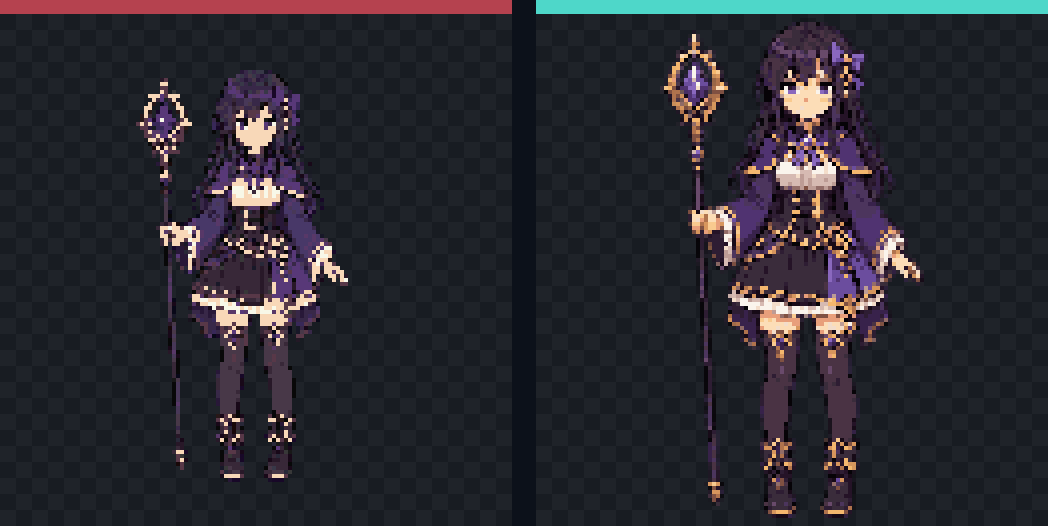
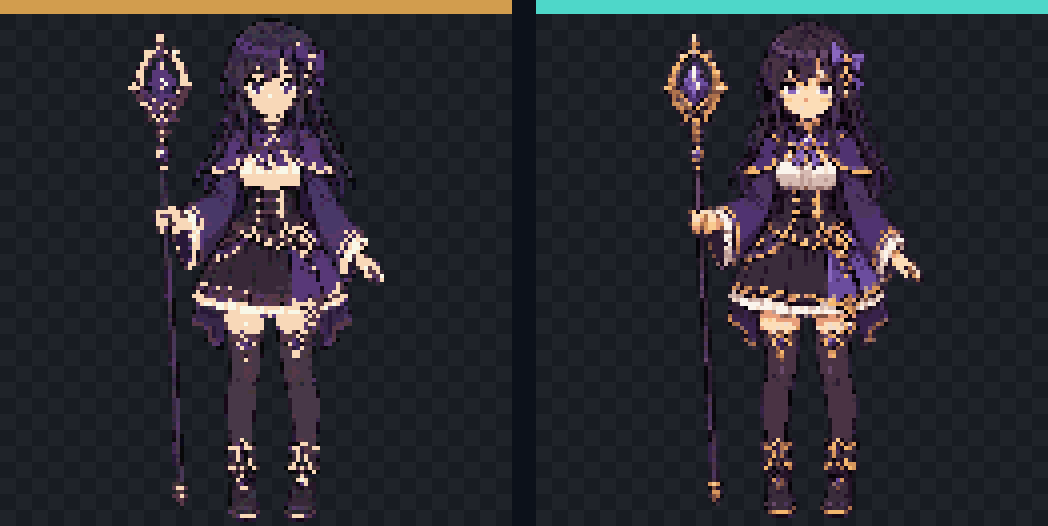
docs: compare Pixelate with naive pixelation

Changed region(s): [[0.0, 0.0, 0.4885, 1.0]]

diff --git a/packages/pixel-core/src/pixel-art.ts b/packages/pixel-core/src/pixel-art.ts
@@ -817,7 +817,7 @@ export function pixelateAnimationFrames(frames: ImageData[], width: number, heig
   return { frames: resized.map((frame) => applyPerceptualPalette(frame, palette)), palette, grid: detectedGrid.detected ? detectedGrid : undefined };
 }
 
-export function legacyPalette(frames: ImageData[], maxColors: number): RGB[] {
+export function naivePalette(frames: ImageData[], maxColors: number): RGB[] {
   const buckets = new Map<string, { count: number; r: number; g: number; b: number }>();
   const step = Math.max(1, Math.floor(Math.sqrt(frames.reduce((sum, frame) => sum + frame.width * frame.height, 0) / 20_000)));
   for (const frame of frames) for (let y = 0; y < frame.height; y += step) for (let x = 0; x < frame.width; x += step) {
@@ -830,7 +830,7 @@ export function legacyPalette(frames: ImageData[], maxColors: number): RGB[] {
   return [...buckets.values()].sort((a, b) => b.count - a.count).slice(0, Math.max(2, maxColors)).map(({ r, g, b }) => [r + 8, g + 8, b + 8]);
 }
 
-export function legacyApplyPalette(source: ImageData, palette: RGB[]) {
+export function naiveApplyPalette(source: ImageData, palette: RGB[]) {
   const output = new ImageData(new Uint8ClampedArray(source.data), source.width, source.height);
   for (let offset = 0; offset < output.data.length; offset += 4) {
     if (output.data[offset + 3] < 16 || !palette.length) continue;
@@ -844,9 +844,10 @@ export function legacyApplyPalette(source: ImageData, palette: RGB[]) {
   return output;
 }
 
-export function legacyPixelateImageData(source: ImageData, width: number, height: number, paletteSize = 24) {
-  const scale = Math.min(width / source.width, height / source.height);
-  const drawWidth = Math.max(1, Math.round(source.width * scale)); const drawHeight = Math.max(1, Math.round(source.height * scale));
-  const fitted = pasteCentered(nearestResize(source, drawWidth, drawHeight), width, height);
-  return legacyApplyPalette(fitted, legacyPalette([fitted], paletteSize));
+export function naivePixelateImageData(source: ImageData, width: number, height: number, paletteSize = 24) {
+  const cropped = cropPixelArt(source, sharedContentBounds([source]));
+  const scale = Math.min(width / cropped.width, height / cropped.height);
+  const drawWidth = Math.max(1, Math.round(cropped.width * scale)); const drawHeight = Math.max(1, Math.round(cropped.height * scale));
+  const fitted = pasteCentered(nearestResize(cropped, drawWidth, drawHeight), width, height);
+  return naiveApplyPalette(fitted, naivePalette([fitted], paletteSize));
 }

diff --git a/scripts/compare-pixel-pipelines.ts b/scripts/compare-pixel-pipelines.ts
@@ -2,7 +2,7 @@ import { mkdirSync, readFileSync, writeFileSync } from "node:fs";
 import { resolve } from "node:path";
 import { PNG } from "pngjs";
 import {
-  legacyPixelateImageData,
+  naivePixelateImageData,
   pixelateImageData,
   removeChromaBackground,
   type PixelGridDetection,
@@ -61,9 +61,9 @@ function contactSheet(left: ImageData, right: ImageData) {
       output.data.set(source.data.subarray(sourceOffset, sourceOffset + 4), targetOffset);
     }
   };
-  // Red = legacy, teal = optimized. The standalone images use explicit names.
+  // Amber = naive baseline, teal = Pixelate. The standalone images use explicit names.
   for (let y = 0; y < bar; y++) {
-    for (let x = 0; x < left.width; x++) output.data.set([181, 66, 79, 255], (y * output.width + x) * 4);
+    for (let x = 0; x < left.width; x++) output.data.set([210, 157, 78, 255], (y * output.width + x) * 4);
     for (let x = left.width + gap; x < output.width; x++) output.data.set([78, 215, 201, 255], (y * output.width + x) * 4);
   }
   paste(left, 0); paste(right, left.width + gap);
@@ -110,14 +110,14 @@ const prepared = prepareSource(decoded);
 const input = prepared.image;
 console.log(`Input preprocessing: ${prepared.background}`);
 
-for (const target of [64, 128]) {
-  const legacy = legacyPixelateImageData(input, target, target, 24);
+for (const target of [64, 128, 256]) {
+  const naive = naivePixelateImageData(input, target, target, 24);
   const optimized = pixelateImageData(input, target, target, 24);
   const optimizedUnquantized = pixelateImageData(input, target, target, 24, { quantize: false });
-  writePng(resolve(outputDir, `legacy-${target}.png`), legacy);
+  writePng(resolve(outputDir, `naive-${target}.png`), naive);
   writePng(resolve(outputDir, `optimized-unquantized-${target}.png`), optimizedUnquantized.imageData);
   writePng(resolve(outputDir, `optimized-${target}.png`), optimized.imageData);
   const scale = Math.max(1, Math.floor(512 / target));
-  writePng(resolve(outputDir, `comparison-${target}.png`), contactSheet(preview(legacy, scale), preview(optimized.imageData, scale)));
+  writePng(resolve(outputDir, `comparison-${target}.png`), contactSheet(preview(naive, scale), preview(optimized.imageData, scale)));
   console.log(`${target}x${target}: ${describeGrid(optimized.grid)}; ${optimized.palette.length} colors`);
 }

diff --git a/tests/core.test.ts b/tests/core.test.ts
@@ -8,7 +8,7 @@ import {
   dominantPalette,
   edgeAwareDownscale,
   frameDifference,
-  legacyPixelateImageData,
+  naivePixelateImageData,
   pixelateAnimationFrames,
   pixelateImageData,
   prepareExternalVideoReference,
@@ -416,13 +416,15 @@ describe("local frame and pixel processing", () => {
 
   it("keeps a thin high-contrast feature that nearest-neighbor sampling misses", () => {
     const data = new Uint8ClampedArray(8 * 8 * 4);
+    data.set([20, 20, 20, 255], 0);
+    data.set([20, 20, 20, 255], (8 * 8 - 1) * 4);
     for (let y = 1; y < 7; y++) data.set([245, 245, 245, 255], (y * 8 + 3) * 4);
     const source = new ImageData(data, 8, 8);
-    const legacy = legacyPixelateImageData(source, 2, 2, 4);
+    const naive = naivePixelateImageData(source, 2, 2, 4);
     const improved = edgeAwareDownscale(source, 2, 2);
-    const legacyOpaque = [...legacy.data].filter((_, index) => index % 4 === 3 && legacy.data[index] > 0).length;
+    const naiveOpaque = [...naive.data].filter((_, index) => index % 4 === 3 && naive.data[index] > 0).length;
     const improvedOpaque = [...improved.data].filter((_, index) => index % 4 === 3 && improved.data[index] > 0).length;
-    expect(improvedOpaque).toBeGreaterThan(legacyOpaque);
+    expect(improvedOpaque).toBeGreaterThan(naiveOpaque);
   });
 
   it("crops transparent margins before fitting a standard output canvas", () => {

diff --git a/packages/pixel-core/src/index.ts b/packages/pixel-core/src/index.ts
@@ -10,9 +10,9 @@ export {
   derivePerceptualPalette,
   detectPseudoPixelGrid,
   edgeAwareDownscale,
-  legacyApplyPalette,
-  legacyPalette,
-  legacyPixelateImageData,
+  naiveApplyPalette,
+  naivePalette,
+  naivePixelateImageData,
   pixelateAnimationFrames,
   pixelateImageData,
   type PixelArtProcessOptions,

diff --git a/README.md b/README.md
@@ -66,13 +66,14 @@ Perceptual palette generation and quantization
 PNG or sprite-sheet export
 ```
 
-The repository keeps visual regression fixtures for reviewing algorithm changes. The example begins with a magenta-keyed source image; the comparison shows the legacy result in red and the optimized result in teal.
+The repository keeps visual regression fixtures for reviewing algorithm changes. The example begins with a magenta-keyed source image and compares a naïve nearest-neighbor pixelation baseline with Pixelate's optimized result. Both use the same transparent content crop, 256 × 256 canvas, and 24-color limit.
 
 <div align="center">
   <p><strong>Example source</strong></p>
   <img src="public/assets/demo-alchemist.png" width="420" alt="Magenta-keyed pixel-art mage source image" />
-  <p><strong>128 × 128 output comparison</strong></p>
-  <img src="docs/comparisons/pixel-pipeline/comparison-128.png" alt="Legacy and optimized pixel-processing comparison" />
+  <p><strong>256 × 256 output comparison</strong></p>
+  <p>Naïve baseline (amber) · Pixelate (teal)</p>
+  <img src="docs/comparisons/pixel-pipeline/comparison-256.png" alt="Naive nearest-neighbor baseline and Pixelate 256 × 256 comparison" />
 </div>
 
 Read the full rationale and reproduction steps in [Pixel-art processing pipeline](docs/pixel-processing.md).
@@ -123,7 +124,7 @@ The verification suite runs TypeScript checks, unit tests, and a production buil
 | `pnpm preview` | Preview the production build locally. |
 | `pnpm test` | Run the Vitest test suite. |
 | `pnpm check` | Run type checking, tests, and the production build. |
-| `pnpm compare:pixels` | Regenerate the legacy-versus-optimized pixel-pipeline fixtures. |
+| `pnpm compare:pixels` | Regenerate the naïve-baseline-versus-Pixelate comparison fixtures. |
 | `pnpm deploy:cloudflare:dry-run` | Validate the Cloudflare Worker bundle without deploying. |
 | `pnpm deploy:cloudflare` | Build and deploy with Wrangler. |
 

diff --git a/docs/pixel-processing.md b/docs/pixel-processing.md
@@ -1,13 +1,12 @@
 # Pixel-art processing pipeline
 
-## Why the pipeline changed
+## Why this pipeline
 
-The original implementation resized the source with nearest-neighbour sampling,
-kept the 24 most frequent 4-bit RGB buckets, and mapped every output pixel to
-the nearest bucket. It was deterministic and fast, but it could lose thin
-outlines, eyes, weapon edges, and rare highlight colors. Enlarged AI-generated
-"pixel art" also kept its false sub-pixel texture instead of recovering a
-stable source grid.
+A naïve pixelation approach resizes the source with nearest-neighbour sampling,
+keeps the most frequent RGB buckets, and maps every output pixel to the nearest
+bucket. It is deterministic and fast, but can lose thin outlines, eyes, weapon
+edges, and rare highlight colors. Enlarged AI-generated "pixel art" can also
+retain false sub-pixel texture instead of recovering a stable source grid.
 
 ## Optimized pipeline
 
@@ -50,11 +49,11 @@ Run:
 pnpm compare:pixels
 ```
 
-The command processes `public/assets/demo-alchemist.png` through the original
-and optimized implementations at 64×64 and 128×128. Standalone outputs and
+The command processes `public/assets/demo-alchemist.png` through a naïve
+nearest-neighbor baseline and Pixelate at 64×64, 128×128, and 256×256. Standalone outputs and
 side-by-side contact sheets are written to
-`docs/comparisons/pixel-pipeline/`. In contact sheets, red identifies the
-original pipeline and teal identifies the optimized pipeline.
+`docs/comparisons/pixel-pipeline/`. In contact sheets, amber identifies the
+naïve baseline and teal identifies Pixelate.
 
 The comparison is intentionally retained in the repository so changes to the
 algorithm can be reviewed visually instead of relying only on unit tests.
